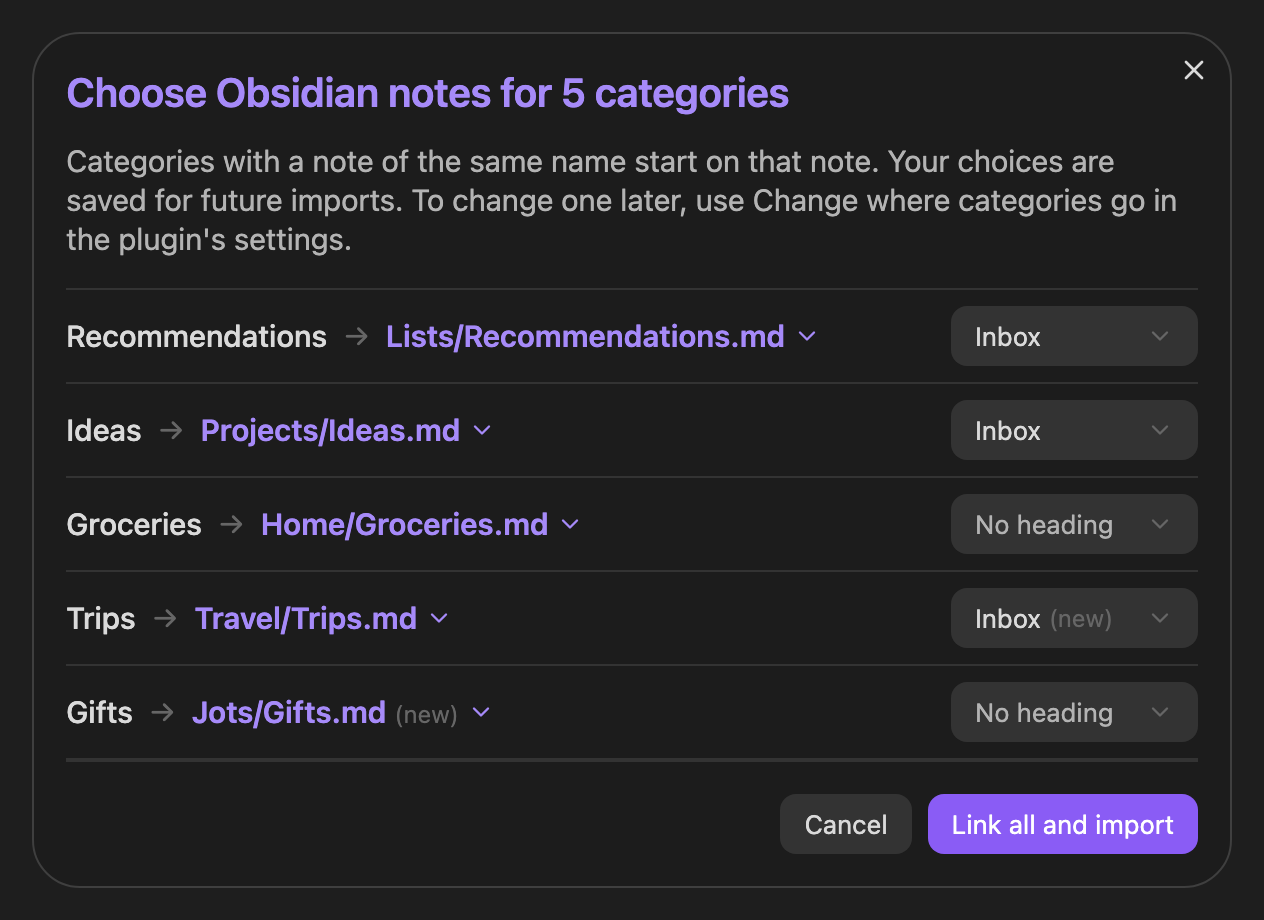
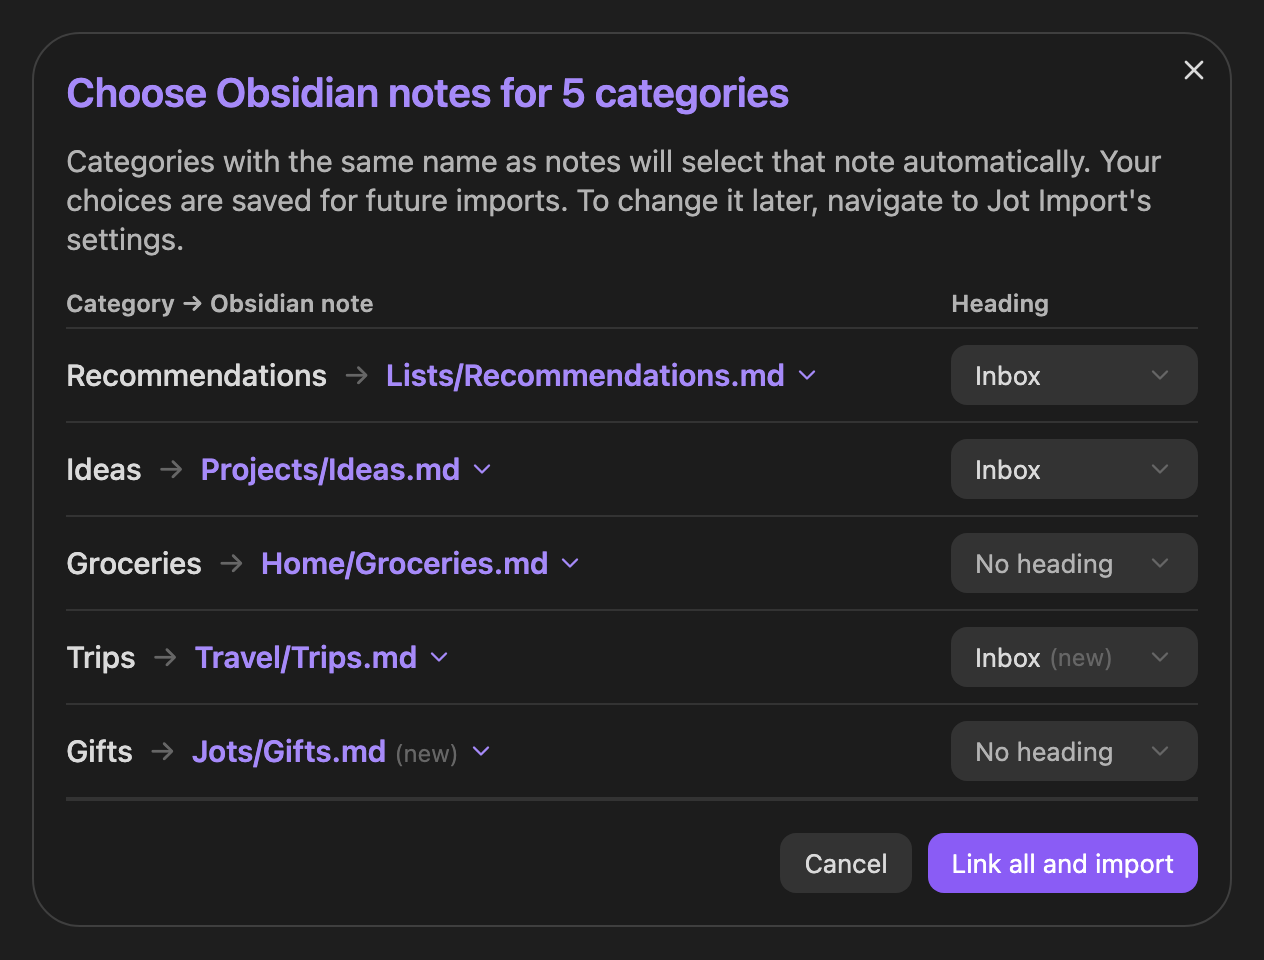
README: shorter, with the current dialog; author yesokcool

diff --git a/README.md b/README.md
@@ -1,140 +1,42 @@
 # Jot Import
 
-Jot Import brings a [Jot](https://jotquick.app) export from your iPhone into
-your vault. Each category's jots go into a note you choose the first time it
-comes in. They go at the top, at the bottom or under a heading, and photos and
-files come with them.
+[Jot](https://jotquick.app) is a private capture app for iPhone. Jot Import
+brings Jot exports into your Obsidian vault. Each Jot category goes into the
+Obsidian note you choose.
+
+![The window where you choose an Obsidian note for each Jot category.](link-dialog.png)
 
 ## How to use
 
-1. In Jot, open **Export ▸ Format**, turn on **Obsidian Format**, and export.
-   You get a `.md` file, or a `.zip` when the jots have photos or files.
-2. Import it in one of these ways:
-   - Run **Import a Jot export…** from the command palette, or tap its ribbon
-     icon, and choose the file. Exports already in the vault are listed there
-     too.
-   - Save the export in your vault's **Jots** folder (on iPhone: Share ▸ Save
-     to Files ▸ your vault ▸ Jots). A notice asks whether to import it. Tap
-     **Import**.
-   - Open the export in Obsidian and run **Import the active file as a Jot
-     export**.
+1. In Jot, go to **Export ▸ Format** and turn on **Obsidian Format**. Then
+   export your jots.
+2. In Obsidian, run **Import a Jot export…** from the command palette and
+   choose the file.
+3. Choose an Obsidian note and heading for each category. Then import.
 
-Nothing is imported without asking. Importing the same file twice asks first.
-After an import, an export file in the vault goes to the trash (a setting keeps
-it instead). A zip whose attachments didn't all come in is always kept.
+Jot Import remembers your choices for the next import. It always shows you
+where the jots will go before it writes anything. Photos and files come
+along when the export is a .zip.
 
-At the top of a note, each import goes above the last one, so the newest comes
-first. Within an import, jots keep the order Jot exported them in.
-
-## Choosing notes
-
-The first time a category comes in, a dialog asks which note it goes to. Each
-row starts on:
-
-- the note with the category's name or alias, if there is one that isn't
-  linked to another category;
-- **Choose a note**, if no such note exists but some have similar names
-  (*Project Ideas* for *Ideas*), or the note with its name in the default folder
-  already holds another category's jots. The import waits until you pick one;
-- a new note with the category's name in the default folder, if nothing is similar.
-
-A new note is numbered (*Inbox 1*) when the note with its name holds another
-category's jots, or another category in the export makes the same file name
-(*C* and *C#*).
-
-Tap a row's note to change it. The menu lists the similar notes and a new
-note, and **Find or create a note…** lets you search for any note or type a
-name for a new one (put a folder and a slash in front to choose where it
-goes). The **Heading** button after the note picks the heading the jots go
-under. Then
-tap **Link all and import**.
-
-The export's categories that already have a note are listed too, under
-**Already linked**, so you can move one to another note or heading on the
-way. Its link leaves the old note, which keeps its jots. The dialog opens for
-every import, even when every category is already linked: it then says so
-with a check, the categories folded away, and nothing is written until you
-tap **Import**. The **Change where categories go** button in the settings
-opens it for every linked category, without importing.
-
-![The dialog that asks which note each category goes to.](link-dialog.png)
-
-Your choice is saved in the note's properties:
-
-```yaml
-jot-category-id:
-  - 0D4C2A1B-5E7F-4A2B-9C3D-8E1F2A3B4C5D
-jot-category-heading:
-  0D4C2A1B-5E7F-4A2B-9C3D-8E1F2A3B4C5D: Inbox
-```
-
-After that, the category's jots always go to that note, even if you rename
-or move the note or rename the category in Jot. Several categories can share
-a note, each under its own heading. The settings list every link, where you
-can change its heading or unlink it, or change several at once with **Change
-where categories go**.
-
-**Workspaces.** A category that's in a workspace in Jot gets its new note in a
-folder named after the workspace, inside the default folder: Work's *Inbox* goes to
-`Jots/Work/Inbox.md` and Home's to `Jots/Home/Inbox.md`. Older exports don't
-name workspaces, so their new notes go in the default folder.
-
-**Exports from older versions of Jot** have no category ids, so nothing can be
-linked: each category's jots go into the note with its name in the default
-folder, created if it's missing. A dialog shows where each category goes, and
-nothing is written until you tap **Import**. Case doesn't matter, and
-characters Obsidian can't use in file names are replaced (*Work / Life* goes
-into `Work - Life.md`). Update Jot to choose notes.
-
-## Settings
-
-| Setting | What it does |
-|---|---|
-| **Default folder for new notes** | Where new notes are created. A workspace's categories use a folder in it named after the workspace. **Jots** to start; empty is the vault root. |
-| **Position** | **Top** (the default) or **Bottom** of the note, or of the heading's section. Top is right after the note's properties. To put the jots under the note's `# Title`, make it the heading. |
-| **Default heading** | Put the jots under this heading, added if the note doesn't have it. Type `### Inbox` to set its level; `Inbox` alone makes `## Inbox`. A linked category's own heading takes its place. |
-| **Default heading position** | Where a missing heading is added: the bottom of the note (the default) or the top, right after its properties. |
-| **Blank lines before** / **after** | Blank lines between the jots and the text above and below them, from none to 3. 1 to start. |
-| **Start marker** / **End marker** | A line above and below each import's jots. They start as `*Jots imported {{date}}*` and `---`. `{{date}}` and `{{time}}` are when you import; `{{date:YYYY-MM-DD}}` sets the format. Empty means no line. |
-| **Trash Jot exports after importing** | On to start. Only for exports in the vault. A file chosen from elsewhere is never touched. |
-| **Offer to import new Jot exports** | On to start. Shows a notice when an export is saved in the exports folder. |
-| **Exports folder** | The folder, and the folders in it, watched for new exports. **Jots** to start; the vault root watches the whole vault. |
-| **Shorten long paths** | Where the dialog cuts a path that doesn't fit: at the start, in the middle (the default) or at the end. |
-| **Collapse already-linked categories** | Off to start. In the dialog, the categories that already have a note start folded away behind a row you tap to open. |
-| **Change where categories go** | Opens the dialog for every linked category, to move any to another note or heading. Nothing is imported. |
-
-## Photos and files
-
-When jots have photos or files, Jot exports a `.zip`. Import the zip as it
-is. The attachments are saved where Obsidian saves new attachments, and the
-jots link to them in your link format. Zips import on desktop, Android, and
-iPhone or iPad with iOS 16.4 or later. Elsewhere, unzip the export and import
-the `.md` inside.
-
-If an attachment can't come in (it's damaged, or no jot links to it), the
-jots still do, and that jot keeps its link as Jot wrote it. The notice says
-how many attachments weren't imported, and the zip is kept.
-
-## Privacy
-
-Everything stays on your device: the plugin makes no network requests,
-collects no data and needs no account. It reads a file outside the vault only
-when you pick one with **Choose a file**. In the vault it writes only to the
-category notes and their properties, saves a zip's attachments, and trashes
-the imported export when that setting is on.
+Save Jot exports to your vault's **Jots** folder and Jot Import offers to
+import them.
 
 ## Install
 
-Install **Jot Import** from Settings ▸ Community plugins ▸ Browse. Until it's
-listed there, install it with [BRAT](https://github.com/TfTHacker/obsidian42-brat):
-add `yesokcool/jot-import`. To install by hand, copy `main.js`, `manifest.json` and `styles.css` from the latest
-release into `<vault>/.obsidian/plugins/jot-import/`, then turn it on in
-Settings ▸ Community plugins. Needs Obsidian 1.13 or later, on desktop or
-mobile.
+Search for **Jot Import** in **Settings ▸ Community plugins ▸ Browse**. Until
+it's listed there, install it with
+[BRAT](https://github.com/TfTHacker/obsidian42-brat) using
+`yesokcool/jot-import`.
 
-Jot Import is not affiliated with Obsidian. Obsidian is a trademark of
-Dynalist Inc.
+Needs Obsidian 1.13 or later, on desktop or mobile.
+
+## Privacy
+
+Jot Import makes no network requests and collects no data. It writes only to
+the Obsidian notes you choose and saves the export's photos and files. After
+an import it moves a Jot export in your vault to the trash. You can turn that
+off in settings.
 
 ## License
 
-MIT. See `LICENSE`.
+MIT. Jot Import is not affiliated with Obsidian.
